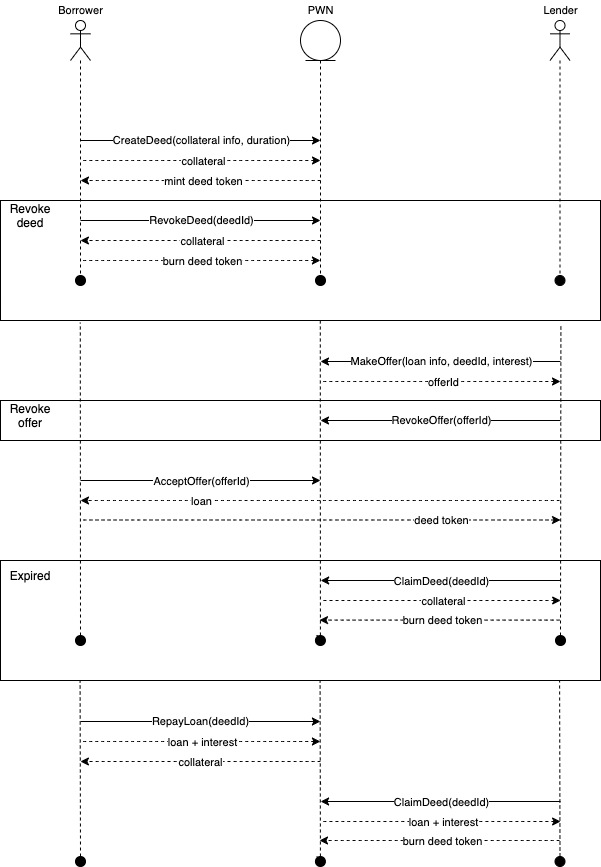
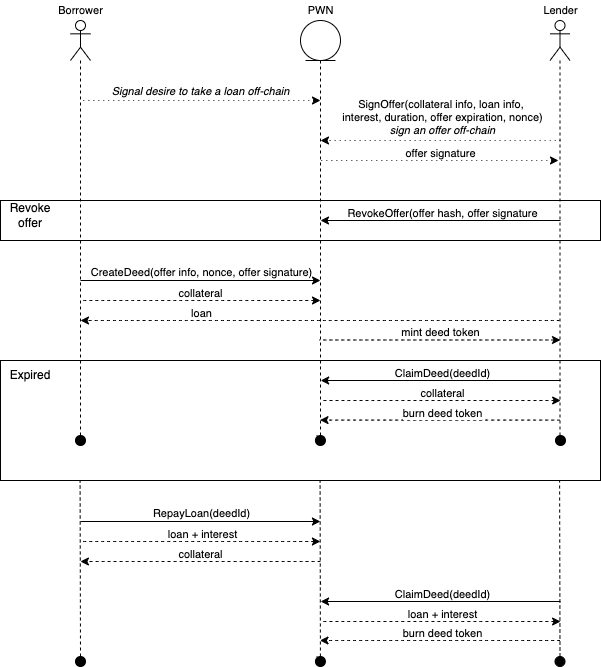
update readme

diff --git a/README.md b/README.md
@@ -5,8 +5,7 @@ Smart contracts enabling p2p loans using arbitrary collateral (supporting ERC20,
 ### PWN (logic)
 PWN is the core interface users are expected to use (also the only interactive contract allowing for premissionless external calls). 
 The contract defines the workflow functionality and handles the market making. Allowing to:
-- Create and revoke Deeds 
-- Make, revoke or accept credit offers 
+- Create Deeds with off-chain signed offer
 - Pay back loans
 - Claim collateral or credit
 
@@ -22,6 +21,7 @@ All approval of tokens utilized within the PWN context has to be done towards th
 as ultimately it's the contract accessing the tokens. 
 
 ### MultiToken library
+https://github.com/PWNFinance/MultiToken
 The library defines a token asset as a struct of token identifiers. 
 It wraps transfer, allowance & balance check calls of the following token standards:
 - ERC20
@@ -36,8 +36,7 @@ Unifying the function calls used within the PWN context (not having to worry abo
 ## PWN Deed
 PWN Deed token is a tokenized representation of a loan which can aquire different states:
 - Dead/None - Deed is not created or have been claimed and can be burned.
-- Open - Deed is created and is accepting offers.
-- Running - Deed has an accepted offer and expiration date, which is set at the time of acceptance.
+- Running - Deed is created by passing offer data and offer siganture signed by a lender.
 - Paid back - Deed had been fully paid back before expiration date. Deed owner is able to claim lended credit + interest.
 - Expired - Deed had not been fully paid back before expiration date. Deed owner is able to claim collateral.
 
@@ -47,22 +46,47 @@ PWN Deed token is a tokenized representation of a loan which can aquire differen
 ## User flow
 Following diagram shows deed lifecycle with borrower, lender and pwn protocol interactions.
 
+1. Borrower starts by signaling desire to take a loan with desired loan parameters (collateral asset, loan asset, amount, duration).
+2. Lender makes an offer to arbitray asset and signs it off-chain. Lender can revoke singed offer anytime by making on-chain transaction.
+3. Borrower can accept any offer which is made to collateral he/she owns.
+
+    a) collateral is transferred to PWNVaul contract (should be approved for PWNVault)
+    
+    b) loan asset is transferred from lender to borrower (should be approved for PWNVault)
+
+    c) deed token is minted to represent a loan and transferred to a lender
+
+4. Borrower should repay a loan anytime before expiration.
+
+    a) repay amount is transferred to PWNVault contract (should be approved for PWNVault)
+
+    b) collateral is transferred back to borrower
+
+5. Deed owner can claim repay amount.
+
+    a) repay amount is transferred to a deed owner
+
+    b) deed token is burned
+
+6. In case borrower is not able to repay loan in time, lender can claim borrowers collateral and borrower keeps the loan asset. 
+
+
 ![Basic user flow](.github/img/user_flow.png "Basic user flow")
 
 ## Deployed addresses
 ### Mainnet
-- PWN deployed at: _0x09c20b357dce2656253e91342a459a2253f69c29_
-- PWNDeed deployed at: _0x9Eb96D50a6D2Af5771883547dae092996828BE73_
-- PWNVault deployed at: _0x45DB28b2d4878Ad124c037d4558AcF5Db3bBa6A5_
+- PWN deployed at: _TBD_
+- PWNDeed deployed at: _TBD_
+- PWNVault deployed at: _TBD_
 
 ### Rinkeby testnet
-- PWN deployed at: _0xdB41a9D0Ae5cBEE58b3e2D00DA6Bd1eB323B92e8_
-- PWNDeed deployed at: _0x4704A3492F3c839B88fB3920ddAff8b3a6F4f7bC_
-- PWNVault deployed at: _0xA1ECA77e64a348B28E1aadf2Bf56D1Eb68Ca518e_
+- PWN deployed at: _TBD_
+- PWNDeed deployed at: _TBD_
+- PWNVault deployed at: _TBD_
 
 ### OpenSea shortcuts
 - PWN Deeds Listings: https://opensea.io/collection/pwn-deed
-- Collateral Collection: https://opensea.io/0x45db28b2d4878ad124c037d4558acf5db3bba6a5
+- Collateral Collection: https://opensea.io/TBD
 
 # PWN is hiring!
 https://www.notion.so/PWN-is-hiring-f5a49899369045e39f41fc7e4c7b5633
